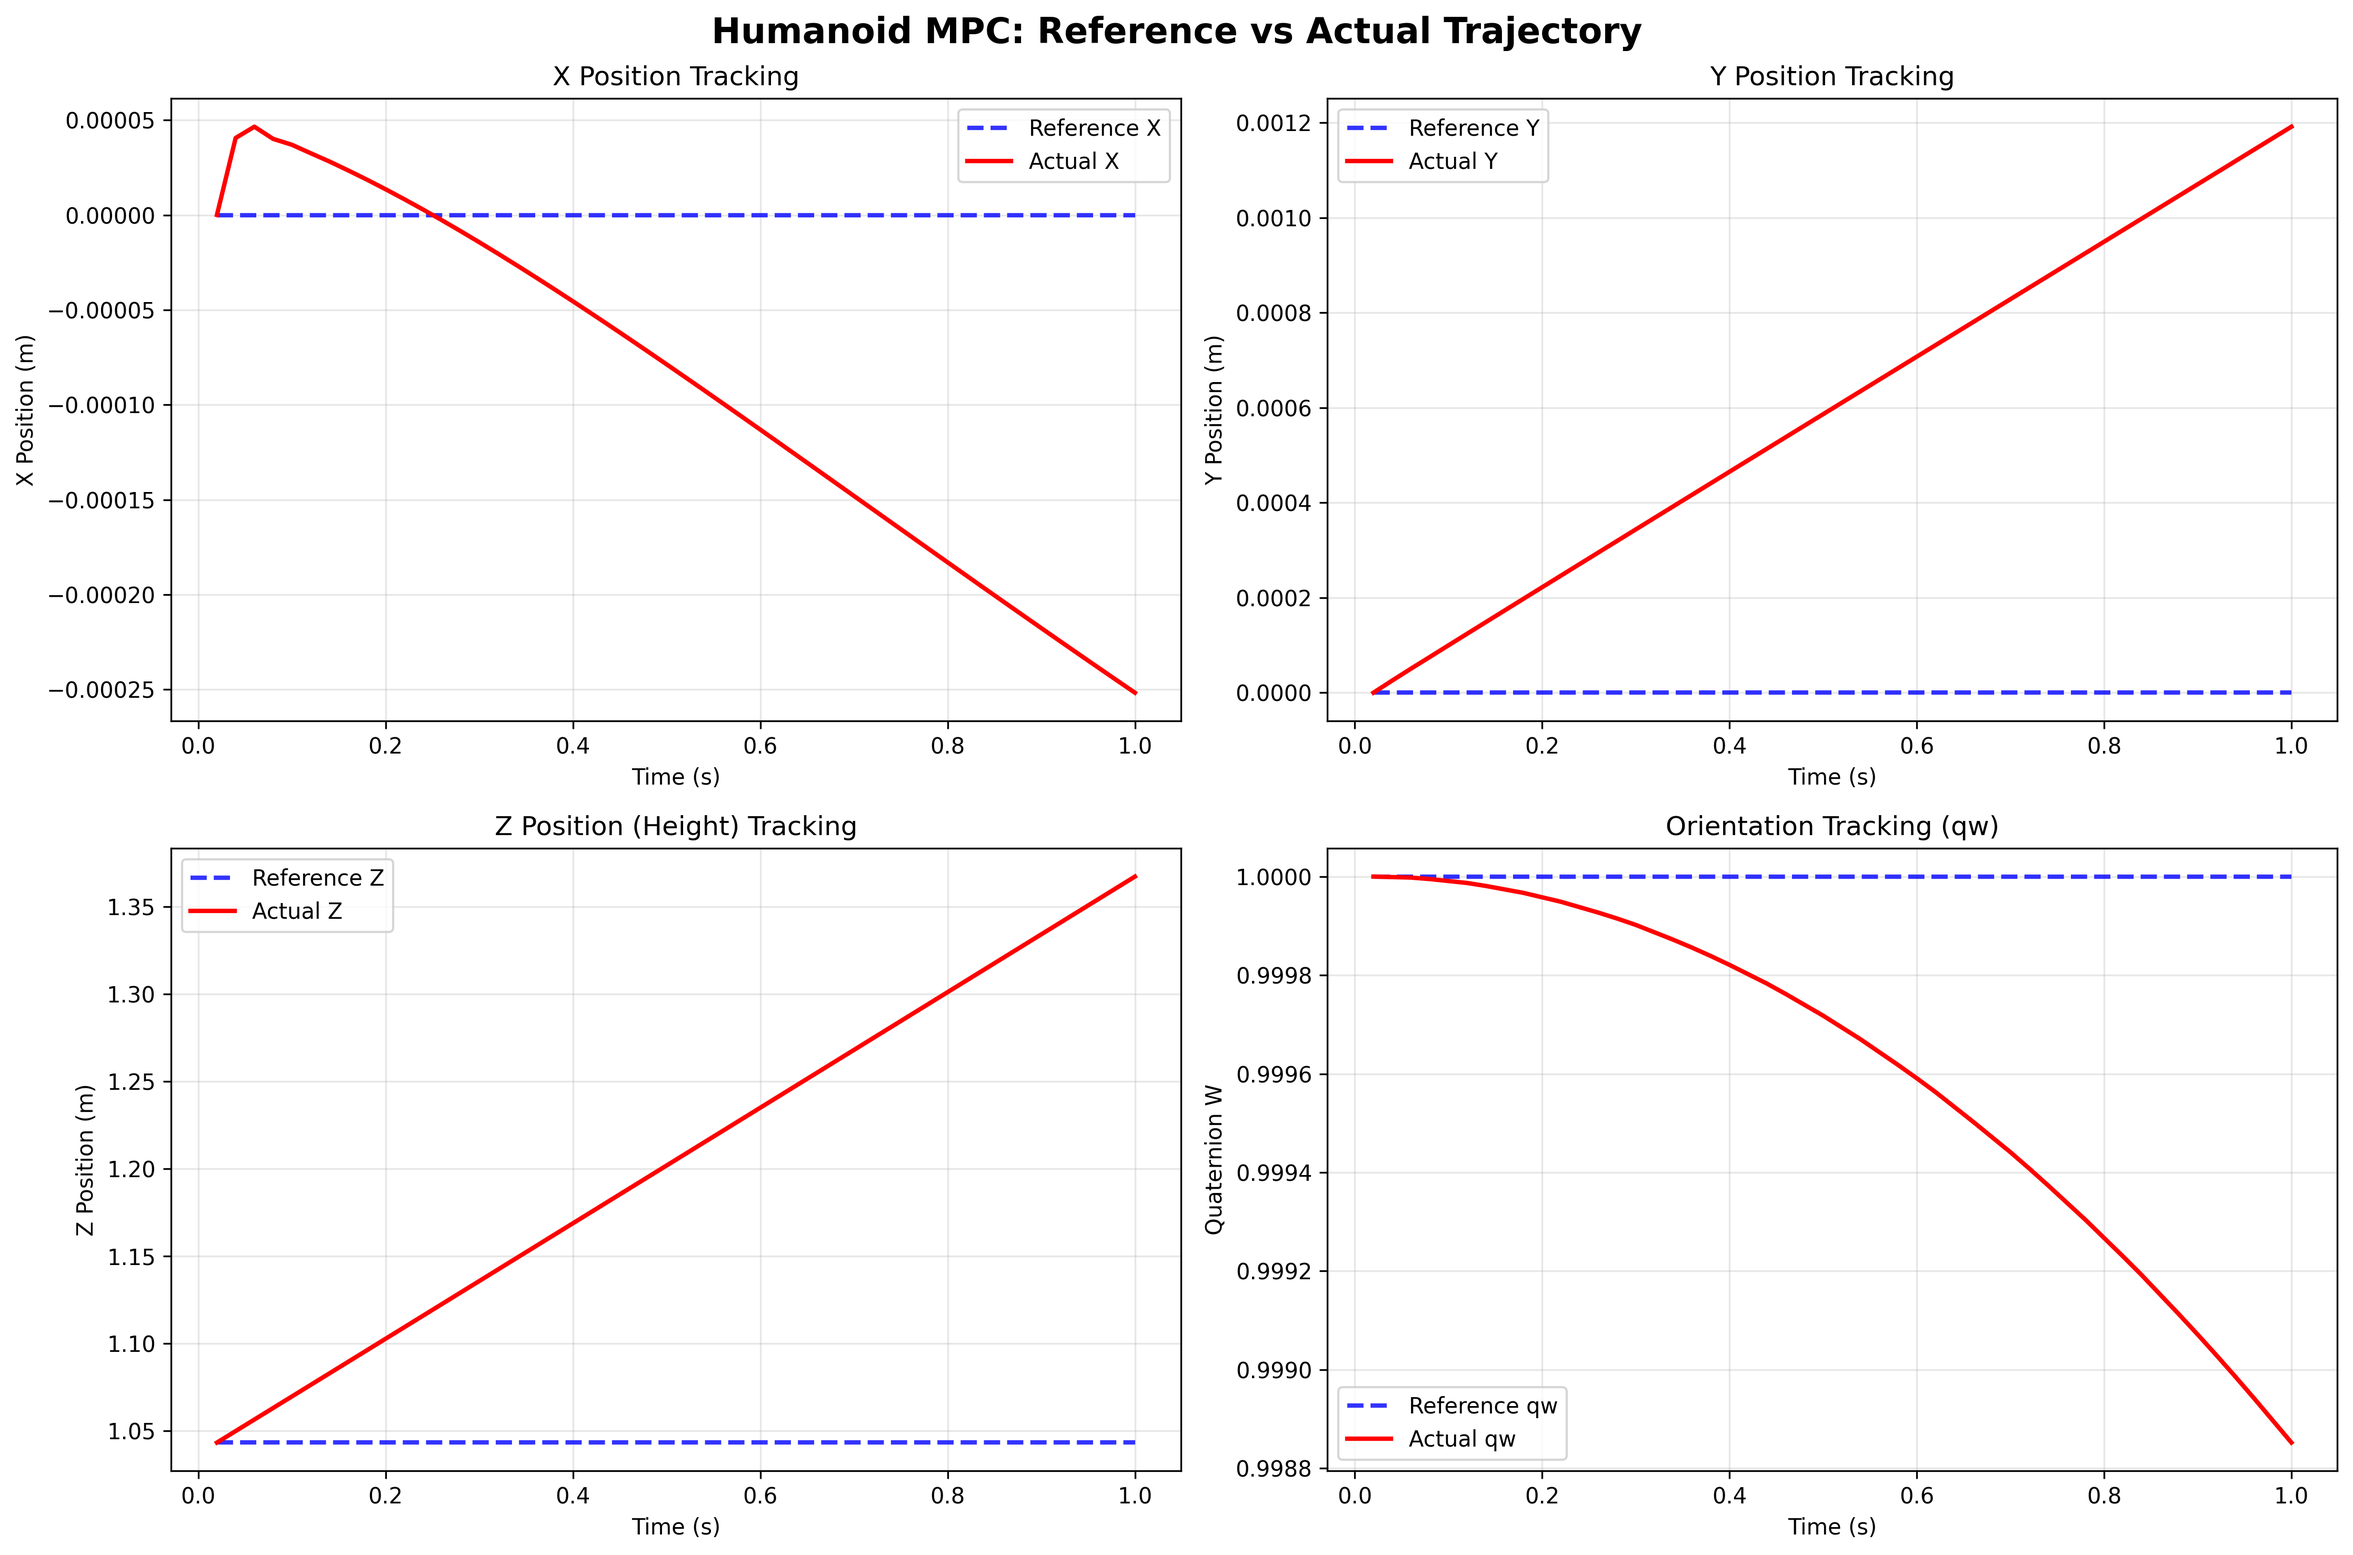
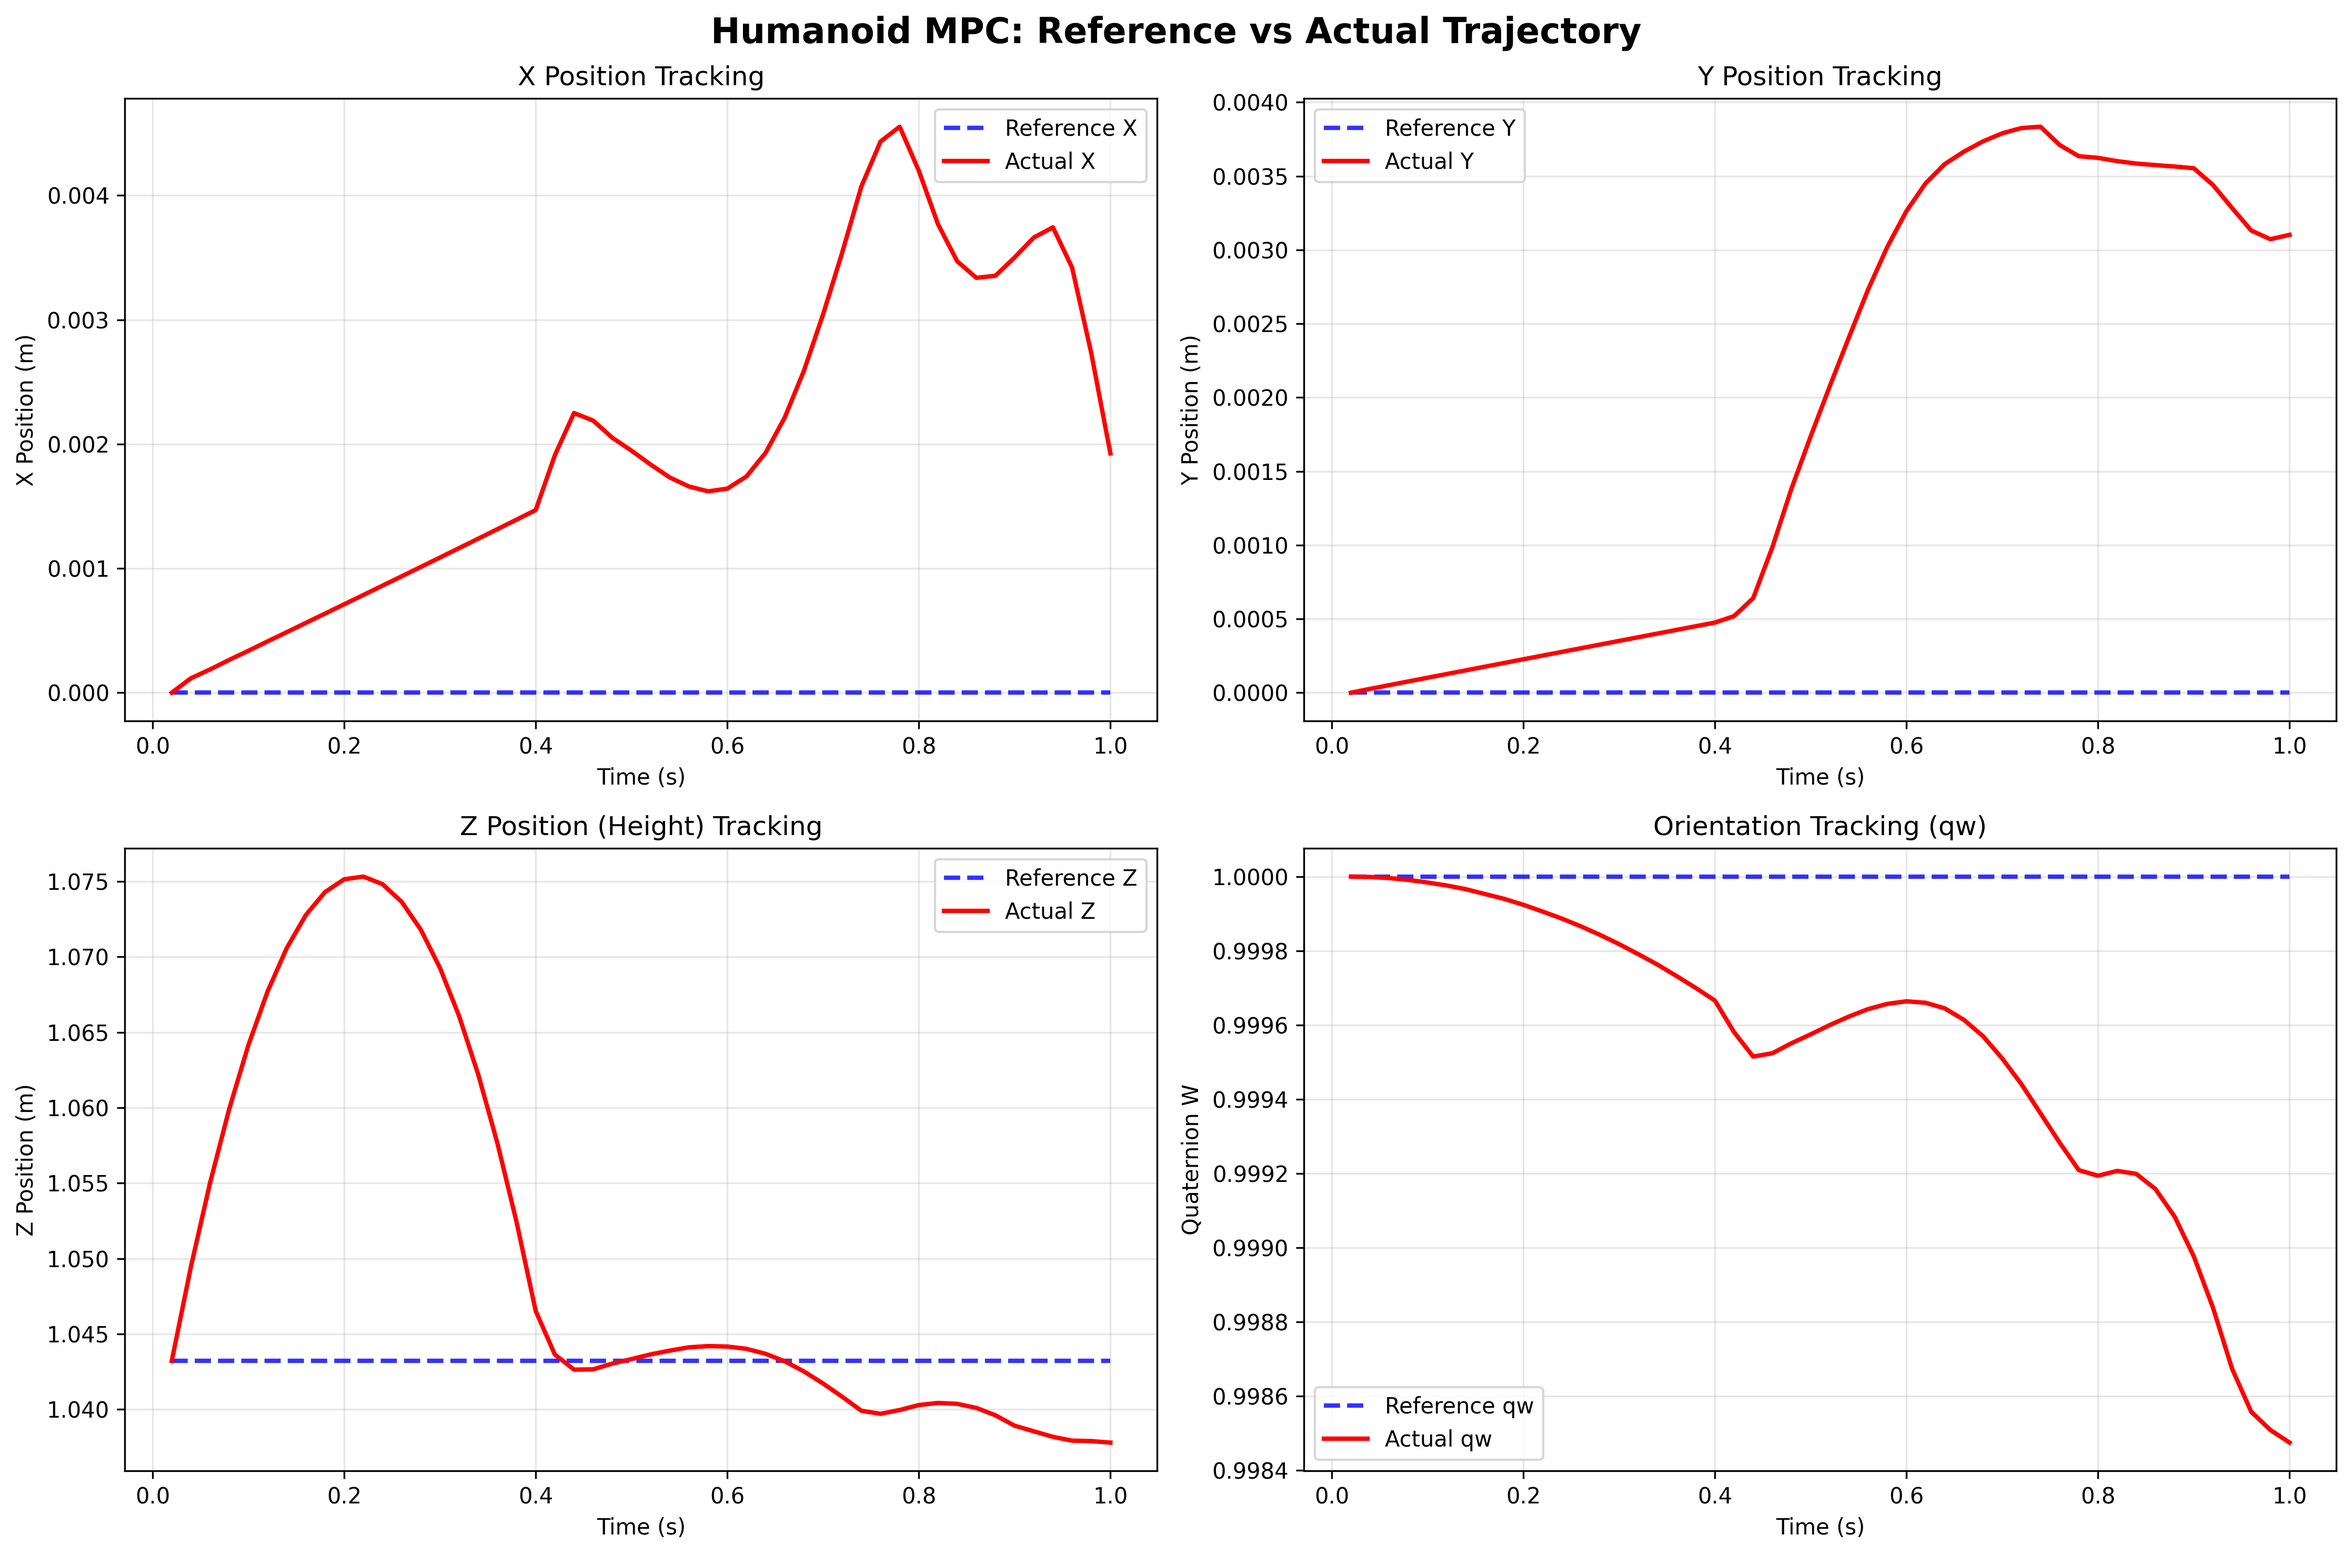
Checkpoint from VS Code for coding agent session

diff --git a/app/humanoid_mpc.cpp b/app/humanoid_mpc.cpp
@@ -8,12 +8,12 @@
 
 int main() {
     // Configuration (matching paper with improved stability)
-    const double dt = 0.02;          // 50Hz MPC (paper)
+    const double dt = 0.05;          // 50Hz MPC (paper)
     const int N = 25;                // 0.5s horizon (paper)
     const int sim_steps = 50;       // 4 seconds simulation
     
     // Use smaller physics timestep for stability
-    const double physics_dt = 0.02; 
+    const double physics_dt = 0.05; 
     
     // Initialize robot
     RobotUtils robot;
@@ -23,7 +23,7 @@ int main() {
     }
     
     // Set paper's key parameters
-    robot.setContactImpratio(100.0);  // Paper's approach
+    robot.setContactImpratio(500.0);  // Paper's approach
     robot.setTimeStep(physics_dt);    // Use fine physics timestep
     // ZERO GRAVITY TEST - ELIMINATE GRAVITY COMPLETELY
     robot.setGravity(0.0, 0.0, -0.0025);  // No gravity in any direction
